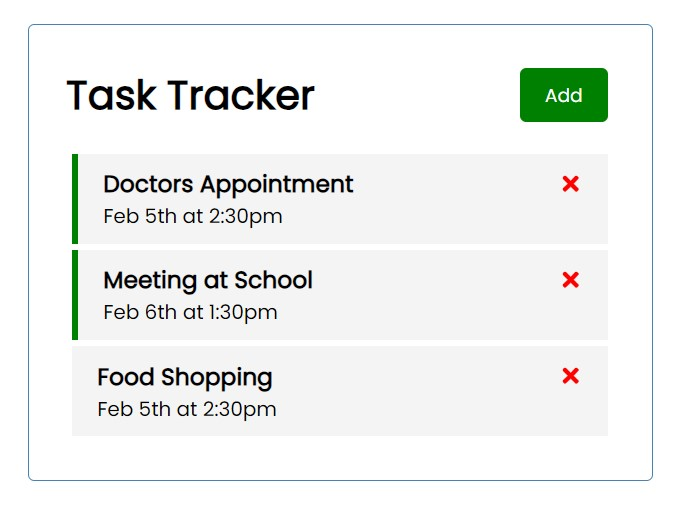
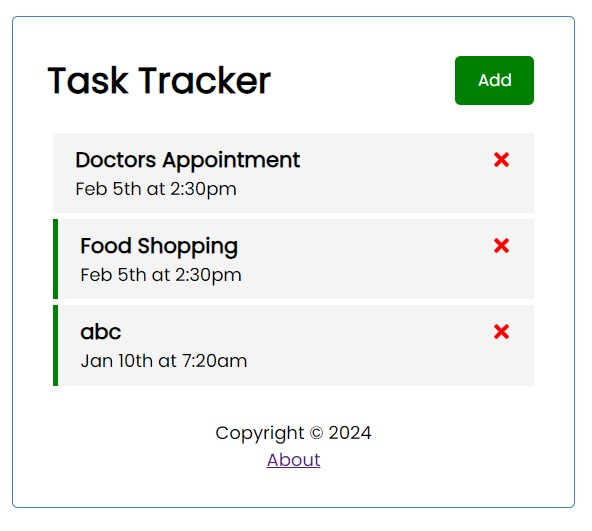
routes added

diff --git a/src/App.js b/src/App.js
@@ -1,8 +1,12 @@
 import Header from "./components/Header";
 import Tasks from "./components/Tasks";
 import AddTask from "./components/AddTask";
+import Footer from "./components/Footer";
+import About from "./components/About";
 
 import { useState, useEffect } from "react";
+import { BrowserRouter as Router, Routes, Route } from "react-router-dom";
+
 function App() {
   const [tasks, setTasks] = useState([]);
   const [showAddTask, setShowAddTask] = useState(false);
@@ -78,18 +82,39 @@ function App() {
   };
 
   return (
-    <div className="container">
-      <Header
-        onAdd={() => setShowAddTask(!showAddTask)}
-        showAdd={showAddTask}
-      />
-      {showAddTask && <AddTask onAdd={addTask} />}
-      {tasks.length > 0 ? (
-        <Tasks tasks={tasks} onDelete={deleteTask} onToggle={toggleReminder} />
-      ) : (
-        "No Tasks to show"
-      )}
-    </div>
+    <Router>
+      <div className="container">
+        <Header
+          onAdd={() => setShowAddTask(!showAddTask)}
+          showAdd={showAddTask}
+        />
+
+        <Routes>
+          <Route
+            path="/"
+            exact
+            element={
+              <>
+                {showAddTask && <AddTask onAdd={addTask} />}
+                {tasks.length > 0 ? (
+                  <Tasks
+                    tasks={tasks}
+                    onDelete={deleteTask}
+                    onToggle={toggleReminder}
+                  />
+                ) : (
+                  "No Tasks to show"
+                )}
+              </>
+            }
+          />
+        </Routes>
+        <Routes>
+          <Route path="/about" Component={About} />
+        </Routes>
+        <Footer />
+      </div>
+    </Router>
   );
 }
 

diff --git a/src/components/Header.js b/src/components/Header.js
@@ -1,12 +1,17 @@
 import PropTypes from "prop-types";
 import Button from "./Button";
+import { useLocation } from "react-router-dom";
 
 const Header = ({ title, onAdd, showAdd }) => {
+  const location = useLocation();
   return (
     <header className="header">
       <h1>{title}</h1>
-      <Button color={showAdd? "red": "green"}
-      text={showAdd ? "Close" : "Add"} onClick={onAdd} />
+      { location.pathname === '/' && <Button
+        color={showAdd ? "red" : "green"}
+        text={showAdd ? "Close" : "Add"}
+        onClick={onAdd}
+      />}
     </header>
   );
 };

diff --git a/src/components/About.js b/src/components/About.js
@@ -1,0 +1,13 @@
+import { Link } from "react-router-dom";
+
+
+const About = () => {
+  return (
+    <div style={{display: 'flex', alignItems: 'center', justifyContent: 'center', flexDirection: 'column'}}>
+      <h4>Verson 1.0.0</h4>
+      <Link to="/">Go Back</Link>
+    </div>
+  )
+}
+
+export default About

diff --git a/src/components/Footer.js b/src/components/Footer.js
@@ -1,0 +1,12 @@
+import { Link } from "react-router-dom";
+
+const Footer = () => {
+  return (
+    <footer>
+      <p>Copyright &copy; 2024</p>
+      <Link to="/about">About</Link>
+    </footer>
+  )
+}
+
+export default Footer

diff --git a/README.md b/README.md
@@ -17,6 +17,7 @@ You may also see any lint errors in the console.
 ## App Snapsorts
 ![Home Page](https://github.com/vishal002/task-tracker/blob/master/public/home.jpg?raw=true)
 ![add Section](https://github.com/vishal002/task-tracker/blob/master/public/add.jpg?raw=true)
+![add Section](https://github.com/vishal002/task-tracker/blob/master/public/about.jpg?raw=true)
 
 ### `npm test`
 
@@ -39,4 +40,7 @@ After build is created then install `npm i serve -g` and run `serve -s build/ -p
 - npm i react-icons
 - npm i json-server
 - npm i react-router-dom
+- Router
+- Link
+- useLocation
 
